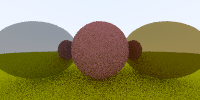
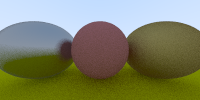
update checks

diff --git a/PyTrace_Weekend_numpy/main.py b/PyTrace_Weekend_numpy/main.py
@@ -40,7 +40,7 @@ def color(r: ray,world: list,tile_shape,depth = 0,max_depth = 2):
 	# 		mask =  tile(~np.all(rec.t == -1.0, axis=-1))  & (closest_hit == rec.t)
 	# 		t += mask * rec.t
 	# 		#bug cannot be in random because incorrect coloring appears without random
-	# 		target = rec.p + rec.normal + random_in_unit_sphere(rec.normal)
+	# 		target = rec.p + rec.normal + random_in_unit_sphere(rec.normal.shape)
 	# 		hit_color += mask * 0.5 * color(ray(rec.p, target - rec.p),world,tile_shape,depth+1,max_depth)
 
 	# for record in rec_list:
@@ -56,8 +56,10 @@ def color(r: ray,world: list,tile_shape,depth = 0,max_depth = 2):
 	t2 = tile(0.5 * (unit_direction[:,:,1] + 1.0))
 
 	sky_color = vec3(1.0,1.0,1.0) * (1.0 - t2) + vec3(0.5,0.7,1.0) * t2
-
-	return np.where(t > 0.01, hit_color,sky_color)
+	# if depth == 0:
+	# 	hit_color =  np.sqrt(hit_color)
+	#hit_color =  np.sqrt(hit_color)
+	return np.where(t > 0.001,hit_color,sky_color)
 	#return sky_color
 
 def main(nx: float = 200, ny: float = 100,ns: float = 100):
@@ -67,8 +69,8 @@ def main(nx: float = 200, ny: float = 100,ns: float = 100):
 	hit_object_list = []
 	hit_object_list.append(sphere(vec3(0,0,-1),0.5,lambertian(vec3(0.8,0.3,0.3))))
 	hit_object_list.append(sphere(vec3(0,-100.5,-1),100,lambertian(vec3(0.8,0.8,0.0))))	
-	hit_object_list.append(sphere(vec3(1,0,-1),0.5,metal(vec3(0.8,0.6,0.2),0.0)))
-	hit_object_list.append(sphere(vec3(-1,0,-1),0.5,metal(vec3(0.8,0.8,0.8),0.0)))
+	hit_object_list.append(sphere(vec3(1,0,-1),0.5,metal(vec3(0.8,0.6,0.2),1)))
+	hit_object_list.append(sphere(vec3(-1,0,-1),0.5,metal(vec3(0.8,0.8,0.8),0.3)))
 
 
 
@@ -95,7 +97,7 @@ def main(nx: float = 200, ny: float = 100,ns: float = 100):
 	# print(output.shape)
 	plt.imsave("output.png",np.rot90(output.astype(int)))
 if __name__ == "__main__": 
-	main(200,100,10)
+	main(200,100,100)
 	# X = random_in_unit_sphere(np.random.randn(200,100,3))
 	# fig = plt.figure()
 	# ax = fig.add_subplot(111)
